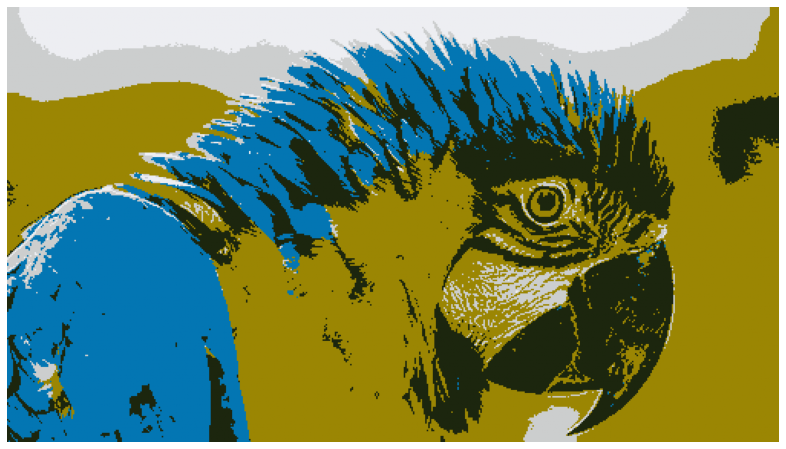
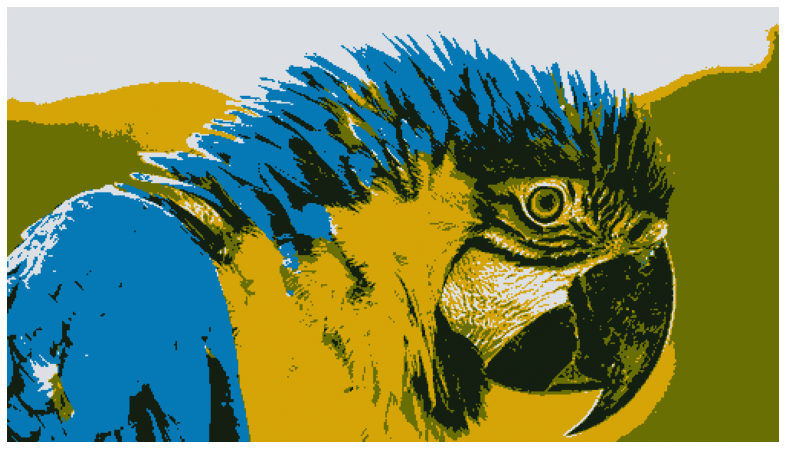
new approach of computing new centroids using the sum function in the numpy library

diff --git a/KMeans.py b/KMeans.py
@@ -56,21 +56,23 @@ class KMeans:
             print()
             print(self.cluster_centers_)
 
-            if np.array_equal(self.old_cluster_centers, self.cluster_centers_):
+            arrays_equivalent = self.compare_arrays(self.old_cluster_centers, self.cluster_centers_)
+            print("Arrays Equivalent: " + str(arrays_equivalent))
+            if arrays_equivalent:
                 break
             else:
                 self.old_cluster_centers = np.copy(self.cluster_centers_)
 
     def init_variables(self, data: np.array) -> None:
         if self.cluster_centers_ is None:
-            self.cluster_centers_ = np.zeros(shape=(self.n_clusters, len(data[0])), dtype=int)
+            self.cluster_centers_ = np.zeros(shape=(self.n_clusters, len(data[0])), dtype=float)
 
         if self.labels_ is None:
             self.labels_ = np.zeros(shape=(len(data)))
 
         self.points_in_cluster = []
         for i in range(self.n_clusters):
-            self.points_in_cluster.append([])
+            self.points_in_cluster.append(np.zeros((0, len(data[0])), dtype=int))
 
     def determine_cluster_centers(self, data: np.array) -> None:
         # Randomise n different points
@@ -94,7 +96,7 @@ class KMeans:
         for i in range(len(data)):
             index_of_closest_cluster = self.get_closest_cluster(data[i])
             self.labels_[i] = index_of_closest_cluster
-            self.points_in_cluster[index_of_closest_cluster].append(data[i])
+            self.points_in_cluster[index_of_closest_cluster] = np.append(self.points_in_cluster[index_of_closest_cluster], [data[i]], axis=0)
 
     def get_closest_cluster(self, data_point: np.array) -> int:
         # index of closest cluster
@@ -114,13 +116,8 @@ class KMeans:
 
     def update_centroids(self) -> None:
         for i in range(self.n_clusters):
-            # Find average of data point sum
-            average = self.find_average_sum(i)
-            # Find point that has the point sum closest to the
-            data_point = self.get_closest_cluster_point(i, average)
-
-            for j in range(len(data_point)):
-                self.cluster_centers_[i][j] = data_point[j]
+            sum_of_points_in_cluster = self.points_in_cluster[i].sum(axis=0)
+            self.cluster_centers_[i] = sum_of_points_in_cluster/len(self.points_in_cluster[i])
 
     def find_average_sum(self, i: int) -> float:
         sum_so_far = 0
@@ -147,3 +144,21 @@ class KMeans:
                 closest_point = self.points_in_cluster[i][j]
 
         return closest_point
+
+    def compare_arrays(self, array1: np.array, array2: np.array) -> False:
+        if array1 is None or array2 is None:
+            if array1 is None and array2 is None:
+                return True
+            else:
+                return False
+
+        for i in range(len(array1)):
+            found_in_array2 = False
+            for j in range(len(array2)):
+                if np.array_equal(array1[i], array2[j]):
+                    found_in_array2 = True
+
+            if not found_in_array2:
+                return False
+
+        return True
